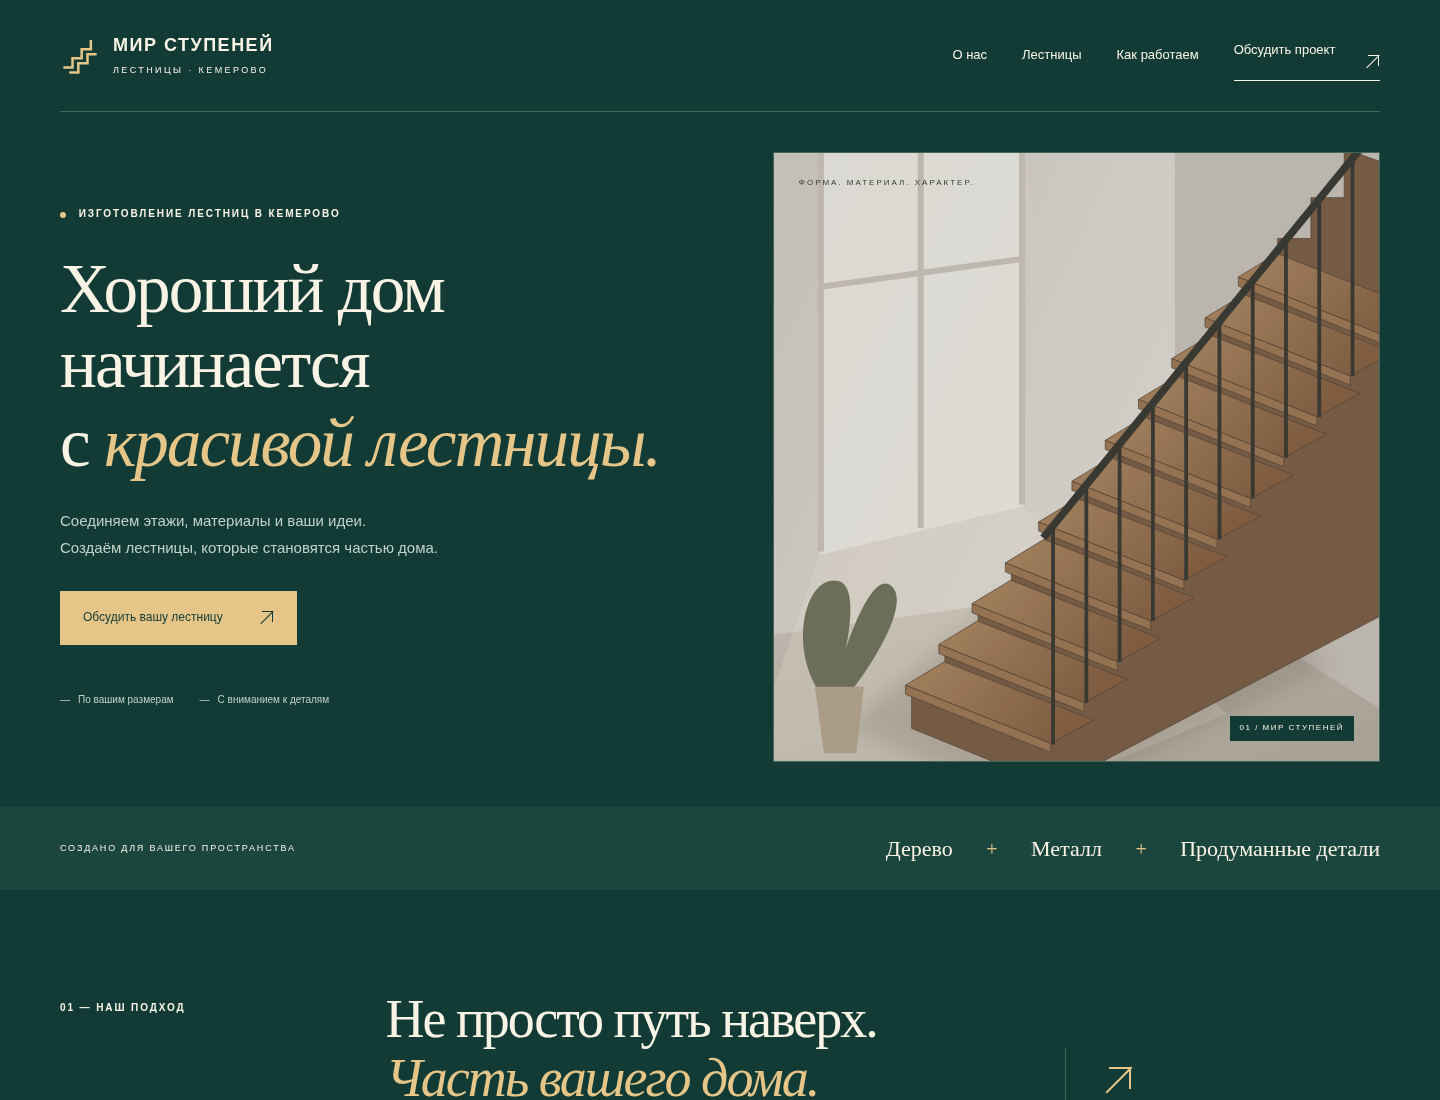
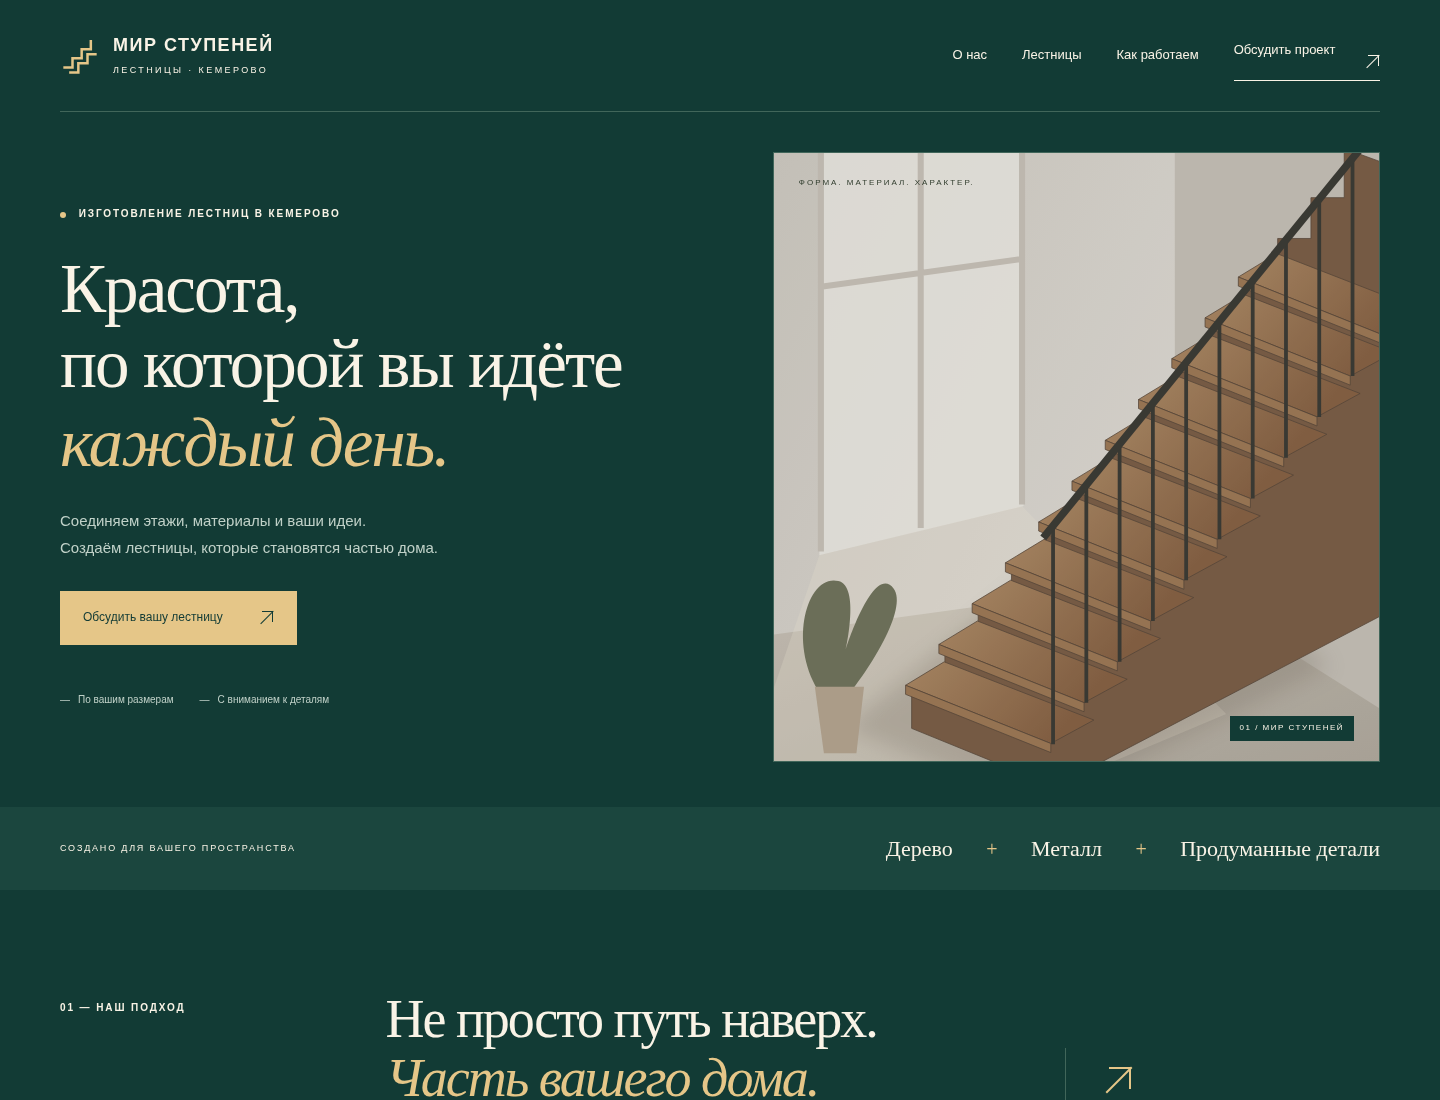
Update hero headline to selected everyday beauty slogan

Changed region(s): [[0.0312, 0.2473, 0.4688, 0.4327]]

diff --git a/site.html b/site.html
@@ -76,7 +76,7 @@
   </header>
   <main>
     <section class="hero wrap">
-      <div class="hero-copy"><p class="eyebrow"><span class="dot"></span> ИЗГОТОВЛЕНИЕ ЛЕСТНИЦ В КЕМЕРОВО</p><h1>Хороший дом<br>начинается<br>с <em>красивой лестницы.</em></h1><p class="intro">Соединяем этажи, материалы и ваши идеи.<br>Создаём лестницы, которые становятся частью дома.</p><a href="#contact" class="button">Обсудить вашу лестницу <span>↗</span></a><div class="hero-foot"><span>По вашим размерам</span><span>С вниманием к деталям</span></div></div>
+      <div class="hero-copy"><p class="eyebrow"><span class="dot"></span> ИЗГОТОВЛЕНИЕ ЛЕСТНИЦ В КЕМЕРОВО</p><h1>Красота,<br>по которой вы идёте<br><em>каждый день.</em></h1><p class="intro">Соединяем этажи, материалы и ваши идеи.<br>Создаём лестницы, которые становятся частью дома.</p><a href="#contact" class="button">Обсудить вашу лестницу <span>↗</span></a><div class="hero-foot"><span>По вашим размерам</span><span>С вниманием к деталям</span></div></div>
[1 lines of base64/hex data omitted]
     </section>
     <div class="ribbon"><div class="wrap"><span>СОЗДАНО ДЛЯ ВАШЕГО ПРОСТРАНСТВА</span><span>Дерево <i>✳</i> Металл <i>✳</i> Продуманные детали</span></div></div>

diff --git a/index.html b/index.html
@@ -18,7 +18,7 @@
   </header>
   <main>
     <section class="hero wrap">
-      <div class="hero-copy"><p class="eyebrow"><span class="dot"></span> ИЗГОТОВЛЕНИЕ ЛЕСТНИЦ В КЕМЕРОВО</p><h1>Хороший дом<br>начинается<br>с <em>красивой лестницы.</em></h1><p class="intro">Соединяем этажи, материалы и ваши идеи.<br>Создаём лестницы, которые становятся частью дома.</p><a href="#contact" class="button">Обсудить вашу лестницу <span>↗</span></a><div class="hero-foot"><span>По вашим размерам</span><span>С вниманием к деталям</span></div></div>
+      <div class="hero-copy"><p class="eyebrow"><span class="dot"></span> ИЗГОТОВЛЕНИЕ ЛЕСТНИЦ В КЕМЕРОВО</p><h1>Красота,<br>по которой вы идёте<br><em>каждый день.</em></h1><p class="intro">Соединяем этажи, материалы и ваши идеи.<br>Создаём лестницы, которые становятся частью дома.</p><a href="#contact" class="button">Обсудить вашу лестницу <span>↗</span></a><div class="hero-foot"><span>По вашим размерам</span><span>С вниманием к деталям</span></div></div>
       <div class="hero-art"><img src="assets/staircase.svg" alt="Архитектурная иллюстрация деревянной лестницы в светлом интерьере"><span class="art-label">ФОРМА. МАТЕРИАЛ. ХАРАКТЕР.</span><span class="art-number">01 / МИР СТУПЕНЕЙ</span></div>
     </section>
     <div class="ribbon"><div class="wrap"><span>СОЗДАНО ДЛЯ ВАШЕГО ПРОСТРАНСТВА</span><span>Дерево <i>✳</i> Металл <i>✳</i> Продуманные детали</span></div></div>
